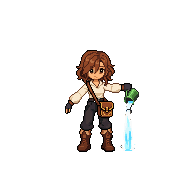
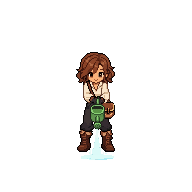
feat(ferramentas): regar de frente (sul) aprovado para Aren e Moni
- Regador verde igual em todos os quadros, de frente; água sai do bico no
  centro e forma a poça. 8 quadros com WATER_TIMING (mais tempo no jato).
- test_player: regar sul com 8 quadros e tempo; gdUnit 255 ok; captura real,
  jardim e fabricação 0 falhas.

Changed region(s): [[0.3125, 0.25, 0.75, 0.8438]]

diff --git a/docs/ASSET_MANIFEST.md b/docs/ASSET_MANIFEST.md
@@ -247,3 +247,14 @@ Evidência: `docs/gameplay/ferramentas/ferramentas_barra.png`, gerada por `tools
 - `assets/player_moni/tools/{axe,hoe}/south/...`: Moni, feita a partir dos quadros do Aren com `transfer_outfit`. Inpaint corrigiu o rastro, a cabeça e a mão.
 - Tempo por quadro em `scripts/player.gd` (`SWING_TIMING`): pausa no alto, descida rápida e pausa longa no impacto.
 - As outras direções e o regador ainda são as animações anteriores. Serão refeitos no mesmo padrão, com aprovação de cada um.
+
+## Regar de frente (sul) — Aren e Moni — 2026-11-22
+
+- `assets/player/tools/water/south/frame_000..007.png` e `assets/player_moni/tools/water/south/...`: regar de frente, aprovado pelo usuário.
+- Como foi feito:
+  - Base: PixelLab v3 a partir da rotação com o regador da barra na frente do corpo.
+  - Inpaint corrigiu o regador de lado e a água saindo por cima.
+  - `edit_animation` deixou o regador com o mesmo material.
+  - A sequência final usa só as poses em que o regador está de frente, para manter direção e tamanho iguais.
+  - A Moni foi feita com `transfer_outfit`; a roupa foi corrigida usando um quadro dela como referência.
+- Tempo por quadro: `WATER_TIMING` em `scripts/player.gd`.
